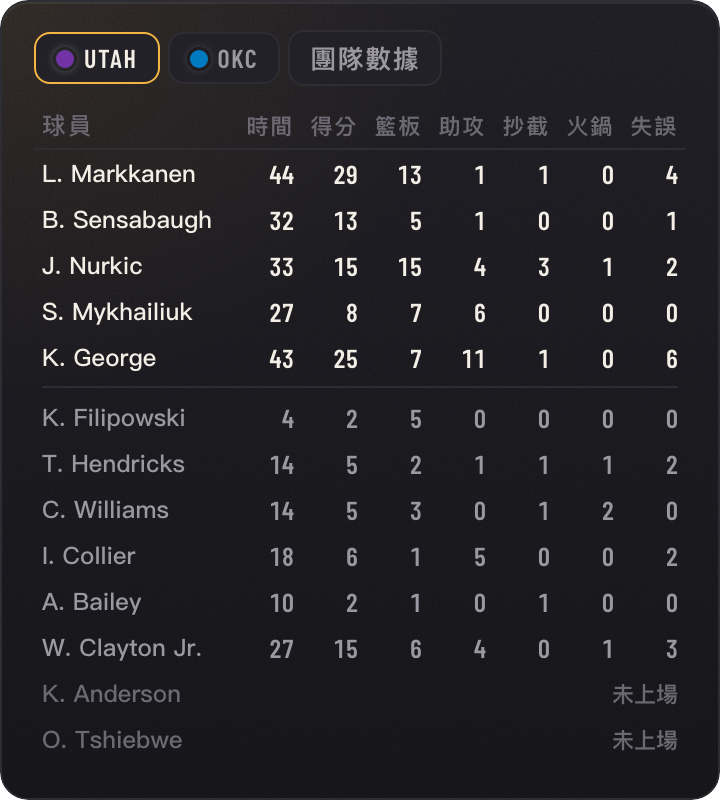
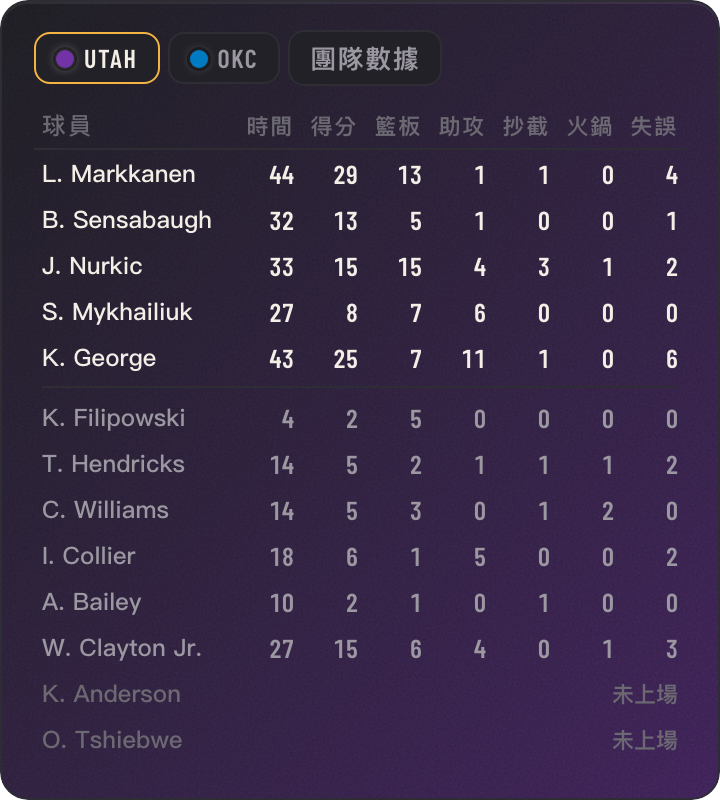
README: the features of this version; fresh screenshots and court GIF
The logos, the team-coloured stats, a finished game's stats without the line
score, the favourite's star and watermark, the shortcuts on or off. The bar
screenshot is at the bar's preset size now (360x176).

diff --git a/README.md b/README.md
@@ -9,14 +9,15 @@
 
 ## 功能
 
-- **一眼看懂的比分**：兩隊各用自己的代表色，顯示節次與時間，持球的一方會加框。
+- **一眼看懂的比分**：每隊一格，附上隊徽，底色是球隊代表色由左往右漸淡；顯示節次與時間，持球的一方會加框。
 - **最近兩筆事件**，最新的在上面：得分、沒進、犯規、失誤、籃板、換人，暫停與重播檢視會標上時間，連續得分以括號標在行尾。
 - **3D 球場**：從三分線後方俯瞰半場，每次出手照實際位置飛向籃框，進球穿過籃網、沒進彈框而出，罰球從罰球線出手。球到籃框時文字和比分才更新，文字和畫面永遠對得上。
-- **數據視窗**：從主視窗旁展開並跟著移動。雙方球員本場數據（場上球員標 *，先發與替補以分隔線區隔）、團隊數據長條圖比較，下方是每節得分。
-- **最愛球隊**：自動跟它的比賽，並在比賽列表裡標星號；沒設定時跟最接近的比賽。
-- **開賽前**倒數，**終場後**顯示各節比分與雙方各項領先者。
+- **數據視窗**：從主視窗旁展開並跟著移動。雙方球員本場數據（場上球員標 *，先發與替補以分隔線區隔），背景換成該隊顏色的漸層；團隊數據以長條圖比較，背景混合兩隊顏色。下方是每節得分；已終場的比賽主視窗已有各節比分，就只展開旁邊的數據。
+- **最愛球隊**：自動跟它的比賽，並在隊名後標星號；設定頁以它的隊徽當浮水印。沒設定時跟最接近的比賽。
+- **比賽列表**：當天所有比賽，附上隊徽與比分。
+- **開賽前**倒數，**終場後**顯示各節比分（標上節次與延長賽）與雙方各項領先者。
 - **通知**：最愛球隊的比賽在開賽、終場、關鍵時刻通知，各自可以開關；沒選最愛球隊時不發通知。
-- **全域快捷鍵**（在任何程式裡都能用）：Ctrl+Alt+M（⌃⌥M）切換簡易／球場模式、Ctrl+Alt+S 顯示數據、Ctrl+Alt+H 隱藏／顯示，可在設定裡一鍵關閉。
+- **全域快捷鍵**（在任何程式裡都能用）：Ctrl+Alt+M（⌃⌥M）切換簡易／球場模式、Ctrl+Alt+S 顯示數據、Ctrl+Alt+H 隱藏／顯示，可在設定裡開啟或關閉。
 - 支援繁體中文與英文介面。
 
 <p>
